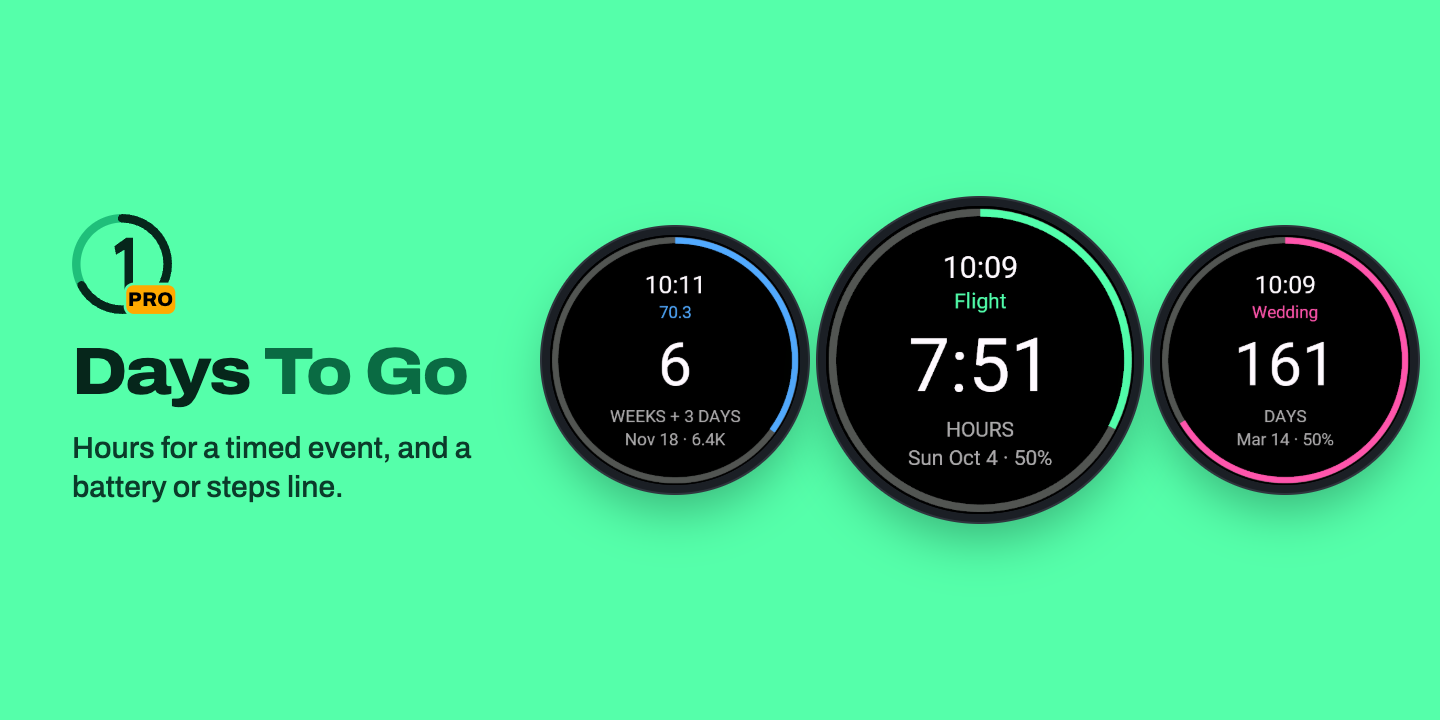
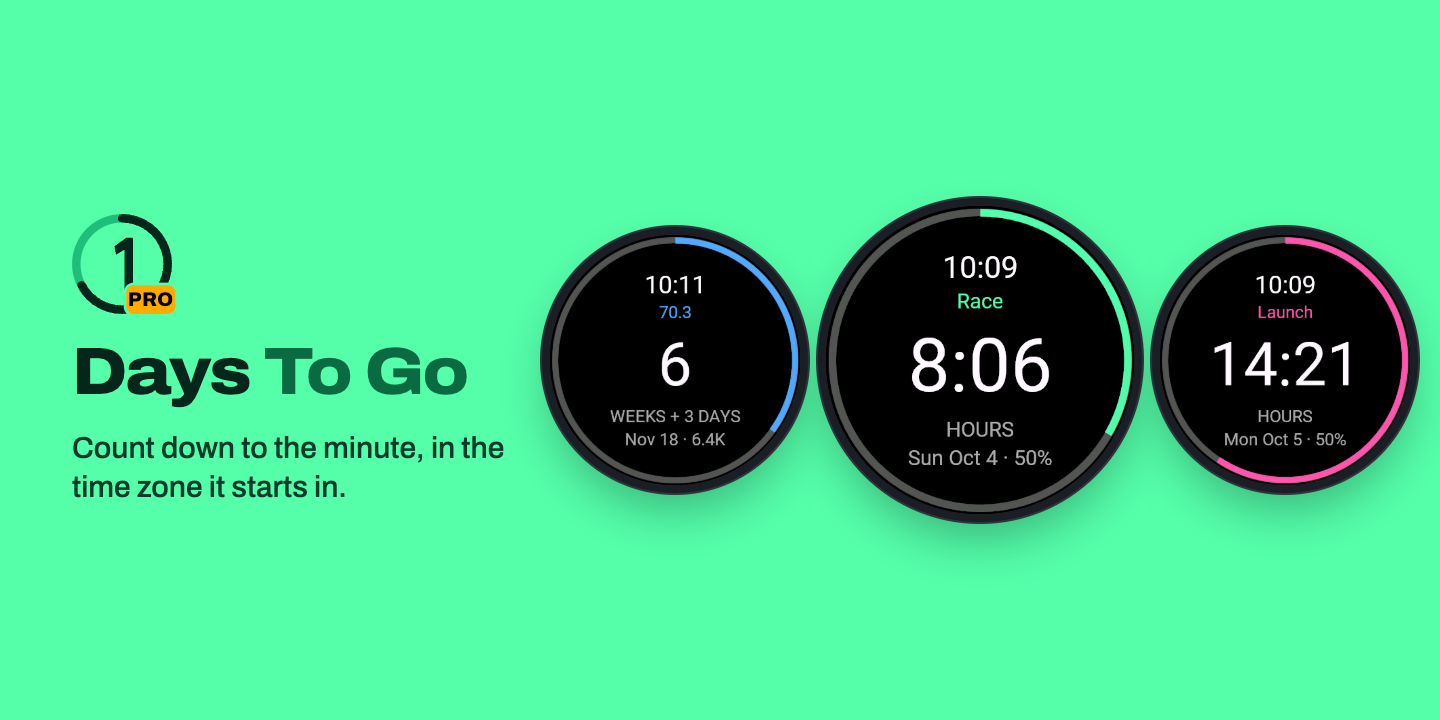
docs(DaysToGo): two new Pro listing screens (to the minute, the other side of the world), hero line, meta
Screens 1 and 3 replaced; the old ones and the old hero are in listing/old/. Simulator captures, canned clock.

Claude-Session: https://claude.ai/code/session_01VBnXC1zGyaFSzHFynsMi4H

diff --git a/DaysToGo/listing/src/hero.html b/DaysToGo/listing/src/hero.html
@@ -1,7 +1,7 @@
 <!doctype html>
 <html><head><meta charset="utf-8">
-<!-- Store hero image (1440x720), Pro tier. Render: see ../screenshots.md. Three simulator captures of the PRO build (../screens/): hours for a timed
-     event, weeks with the steps line, days with the battery line. The mark is the launcher icon's own geometry plus the amber PRO badge that tells
+<!-- Store hero image (1440x720), Pro tier. Render: see ../screenshots.md. Three simulator captures of the PRO build (../screens/): to the minute in
+     the zone it starts in (8:06), weeks with the steps line, the next day on the other side of the world (14:21; ADR-018). The mark is the launcher icon's own geometry plus the amber PRO badge that tells
      Pro from Free. Never the word "free", no price. Light/coloured ground (owner, 2026-10-04): Garmin's brand page says "Do not choose black or transparent backgrounds". Brand mint #55FFAA ground; ink #06261B arc, "1" and name; track #1FBF7A; "To Go" #0A6B43. The old dark one is in ../old/. A PROPOSAL until the owner approves the look. -->
 <link href="https://fonts.googleapis.com/css2?family=Archivo:wdth,wght@100..125,400..800&display=swap" rel="stylesheet">
 <style>
@@ -23,7 +23,7 @@
   <div class="copy">
     <svg class="mark" viewBox="0 0 65 65"><circle cx="32.5" cy="32.5" r="27" fill="none" stroke="#1FBF7A" stroke-width="5"/><path d="M32.5 5.5A27 27 0 1 1 8.553 44.972" fill="none" stroke="#06261B" stroke-width="5" stroke-linecap="round"/><path d="M28 22L35 17H39V48H34V24L29 27Z" fill="#06261B"/><rect x="35" y="45" width="29" height="17" rx="4.5" fill="#FFAA00" stroke="#55FFAA" stroke-width="3" paint-order="stroke"/><text x="49.5" y="57.6" text-anchor="middle" font-family="Archivo,Arial Black,Arial,sans-serif" font-weight="800" font-size="11.5" fill="#000" letter-spacing=".3">PRO</text></svg>
     <h1>Days <span>To Go</span></h1>
-    <p>Hours for a timed event, and a battery or steps line.</p>
+    <p>Count down to the minute, in the time zone it starts in.</p>
   </div>
   <div class="screens">
     <div class="w s"><img src="../screens/2-weeks-steps.png"></div>

diff --git a/DaysToGo/listing/screenshots.md b/DaysToGo/listing/screenshots.md
@@ -14,7 +14,7 @@ Status: 2026-10-04. The whole set was re-rendered today from the **current Pro b
 
 Five is the limit chosen by the owner (2026-10-04). Pro shows only what Pro adds on top of Free's fields (Hour, Minute and Event time zone, Footer; the two new captures are "to the minute", ADR-018); the accent colours are Free's too but vary the set. The Instinct picture comes from the **Instinct E 40 mm** on purpose: Garmin's paid-app product list has no Instinct 2, 2S, 2X or Descent G1 (coordinator note, `reports/Garmin policies and design guidelines.md`), so a Pro listing must not show or name them. `screens/native/5-instincte40mm-166.png` is the simulator's own 166 px capture; `screens/5-instinct.png` is the same pixels enlarged x3 with nearest-neighbour (498 px, no smoothing) because the store shows screenshots larger than that display. Use the native file if you prefer.
 
-Composed images (sources in `src/`): `cover-500.png` (500x500, 17 KB), `hero-1440x720.png` (1440x720, 153 KB), `icon-24-128.png` and `icon-64-128.png` (128x128). The mark is the launcher icon's own geometry (`resources/drawables/launcher_icon.svg`: ring r 27, arc from the top 242.5 degrees, white "1"), so the hero's ring mark now agrees with the icon (the earlier hero's arc was a different angle, re-rendered 2026-10-04, ROADMAP 11.1). **Free and Pro are told apart by one thing:** the same mark with a small amber PRO badge on Pro (Free has none). A proposal; the real launcher icon is still the owner's (ROADMAP 3.3). Cover and hero are on a **light/coloured ground** (owner, 2026-10-04, ROADMAP 10.25): Garmin's brand page says "Do not choose black or transparent backgrounds (transparent backgrounds allow the Connect IQ background color to show)" for the 500x500 store icon. Brand mint `#55FFAA`; ink `#06261B` for the arc, the "1" and "Days"; track `#1FBF7A`; "To Go" `#0A6B43`; the hero keeps the three black watch screens on the mint. The earlier dark pair is in `old/` (`cover-500-dark-2026-10-04.png`, `hero-1440x720-dark-2026-10-04.png`). The 128x128 device icons stay on black: Garmin's black-background rule is for the 500x500 store icon, the device-icon guidance is separate and has no background rule, and the icon sits on the watch's own black.
+Composed images (sources in `src/`): `cover-500.png` (500x500, 17 KB), `hero-1440x720.png` (1440x720, 156 KB; re-rendered 2026-10-04 with the "to the minute" line and the two new screens, the earlier one is `old/hero-1440x720-2026-10-04-pre-minute.png`), `icon-24-128.png` and `icon-64-128.png` (128x128). The mark is the launcher icon's own geometry (`resources/drawables/launcher_icon.svg`: ring r 27, arc from the top 242.5 degrees, white "1"), so the hero's ring mark now agrees with the icon (the earlier hero's arc was a different angle, re-rendered 2026-10-04, ROADMAP 11.1). **Free and Pro are told apart by one thing:** the same mark with a small amber PRO badge on Pro (Free has none). A proposal; the real launcher icon is still the owner's (ROADMAP 3.3). Cover and hero are on a **light/coloured ground** (owner, 2026-10-04, ROADMAP 10.25): Garmin's brand page says "Do not choose black or transparent backgrounds (transparent backgrounds allow the Connect IQ background color to show)" for the 500x500 store icon. Brand mint `#55FFAA`; ink `#06261B` for the arc, the "1" and "Days"; track `#1FBF7A`; "To Go" `#0A6B43`; the hero keeps the three black watch screens on the mint. The earlier dark pair is in `old/` (`cover-500-dark-2026-10-04.png`, `hero-1440x720-dark-2026-10-04.png`). The 128x128 device icons stay on black: Garmin's black-background rule is for the 500x500 store icon, the device-icon guidance is separate and has no background rule, and the icon sits on the watch's own black.
 
 ## How each was made
 
@@ -22,11 +22,12 @@ Screens, in the container (own simulator, one run at a time), then the Instinct 
 
 ```sh
 docker/capture.sh DaysToGo tools/listing_shots.sh pro      # from the repo root; ~6 min; writes listing/screens/ and screens/native/
+docker/capture.sh DaysToGo tools/listing_shots.sh pro "1-to-the-minute.png 3-other-time-zone.png"   # only those two (the second argument is a quoted list of file names)
 DaysToGo/tools/render_listing.sh pro screens                # screens/5-instinct.png from the native capture (Chrome, image-rendering: pixelated)
 DaysToGo/tools/check_listing_images.sh                      # sizes, limits, screen count
 ```
 
-`tools/listing_shots.sh` sets the simulator's clock (`faketime`, Sunday 2026-10-04 10:09), edits the face's real default properties in a private copy (Event, Name, Month, Day, Year, Unit, Hour, Footer, Accent), builds `monkey.jungle` (Pro) and saves with the simulator's own File > Save Screen Capture, so each pixel size is the device's own. The simulator keeps an app's settings between loads, so the script deletes them before every shot (without that, only the first load's settings applied). Image 2 sets the step count by hand (`sim_activity steps=6420`) and waits 70 s. Commands for the composed images (Chrome headless; the Archivo font loads from Google Fonts, so it needs the network once):
+`tools/listing_shots.sh` sets the simulator's clock (`faketime`, Sunday 2026-10-04 10:09), edits the face's real default properties in a private copy (Event, Name, Month, Day, Year, Unit, Hour, Minute, EventZone, Footer, Accent), builds `monkey.jungle` (Pro) and saves with the simulator's own File > Save Screen Capture, so each pixel size is the device's own. The simulator keeps an app's settings between loads, so the script deletes them before every shot (without that, only the first load's settings applied). Image 2 sets the step count by hand (`sim_activity steps=6420`) and waits 70 s. Commands for the composed images (Chrome headless; the Archivo font loads from Google Fonts, so it needs the network once):
 
 ```sh
 DaysToGo/tools/render_listing.sh pro cover hero icon       # all of them: cover.html 500x500, hero.html 1440x720, icon.html 128x128
@@ -36,7 +37,7 @@ which runs, per image: `"/Applications/Google Chrome.app/Contents/MacOS/Google C
 
 ## Limits and how they were checked
 
-Garmin: screenshots under 150 KB each, cover 500x500 under 300 KB, hero 1440x720 under 2048 KB, device icons 128x128 (`reports/listing-template.md`). `DaysToGo/tools/check_listing_images.sh` reads each file's size in bytes (`stat`) and pixel size (`sips`) and fails on a miss; all pass (largest screen 18 KB, cover 17 KB, hero 153 KB). Every image was also opened and looked at.
+Garmin: screenshots under 150 KB each, cover 500x500 under 300 KB, hero 1440x720 under 2048 KB, device icons 128x128 (`reports/listing-template.md`). `DaysToGo/tools/check_listing_images.sh` reads each file's size in bytes (`stat`) and pixel size (`sips`) and fails on a miss; all pass (largest screen 21 KB, cover 17 KB, hero 156 KB). Every image was also opened and looked at.
 
 ## Honesty rules
 

diff --git a/DaysToGo/listing/NOTES.md b/DaysToGo/listing/NOTES.md
@@ -42,7 +42,7 @@ English plus 14 (dan, deu, dut, fin, fre, ita, lit, nob, pol, por, spa, swe, tur
 
 ## Images
 
-**Re-done 2026-10-04 (owner chat): a complete new image set, all proposals the owner approves before upload.** Five screens (see the update below; originally hours with the battery line, weeks with the steps line, days with the battery line, a rectangle, an Instinct), a hero, a cover and the two device icons, all from the current Pro build; details, commands and the limit check are in [`screenshots.md`](screenshots.md). The earlier cover, hero and screens are in `old/`. **Updated 2026-10-04 for the headline (ADR-018):** screen 1 is now "to the minute in the zone it starts in" (`1-to-the-minute.png`, 8:06 with a UTC+2 event) and screen 3 "the other side of the world" (`3-other-time-zone.png`, 14:21 for a 09:30 event in UTC+9), replacing the hours-battery and days-battery captures (in `old/screens-2026-10-04-pre-minute/`); weeks-steps, the rectangle and the Instinct stay; the hero uses the new two.
+**Re-done 2026-10-04 (owner chat): a complete new image set, all proposals the owner approves before upload.** Five screens (see the update below; originally hours with the battery line, weeks with the steps line, days with the battery line, a rectangle, an Instinct), a hero, a cover and the two device icons, all from the current Pro build; details, commands and the limit check are in [`screenshots.md`](screenshots.md). The earlier cover, hero and screens are in `old/`. **Updated 2026-10-04 for the headline (ADR-018):** screen 1 is now "to the minute in the zone it starts in" (`1-to-the-minute.png`, 8:06 with a UTC+2 event) and screen 3 "the other side of the world" (`3-other-time-zone.png`, 14:21 for a 09:30 event in UTC+9), replacing the hours-battery and days-battery captures (in `old/screens-2026-10-04-pre-minute/`); weeks-steps, the rectangle and the Instinct stay; the hero uses the new two and its line now reads "Count down to the minute, in the time zone it starts in.".
 
 - **Cover and hero on a light/coloured ground (owner decision 2026-10-04, ROADMAP 10.25).** Garmin's brand page: "Do not choose black or transparent backgrounds" (500x500 store icon). Chosen: one brand colour, mint `#55FFAA` (the face's own ring accent), flat; ink `#06261B` arc, "1" and "Days"; `#1FBF7A` track; "To Go" `#0A6B43` (about 4.5:1 on the mint, white "To Go" was 1.3:1); PRO badge amber `#FFAA00` as before. Hero keeps the three black watch screens, on the mint with a soft green shadow. Read at 100 px: the ring, the "1" and the name hold. The old dark cover and hero are in `old/`. **Rejected variants** (looked at, not kept): (A) mint with a white arc and white "To Go": white on mint is too weak; (B) near-white `#F2F6F4` with a darkened green `#00B36B` arc: clean and legible, but pale and it drops the brand mint, kept as the fallback if the owner finds the mint too loud; (C) mint with a white disc behind the mark: the mint arc vanishes on the white. **128x128 device icons unchanged (black ground):** the brand page's black/transparent rule is stated for the 500x500 store icon only; the device-icon guidance is separate and has no background rule, and those icons sit on the watch's own black. Owner approves the new look before upload.
 - **Pro shows what Pro adds** (Hour for a timed event, the bottom line), no price number, never "free".
